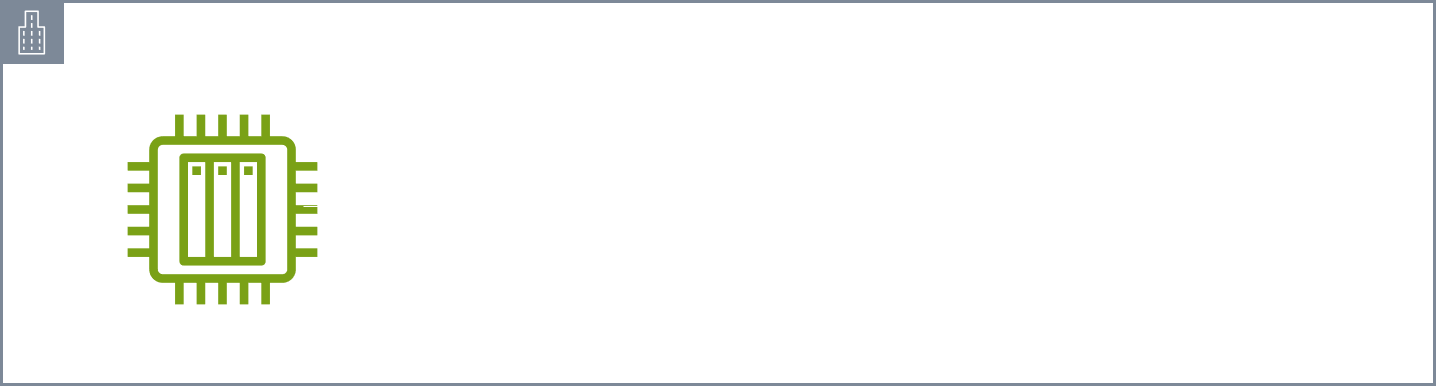
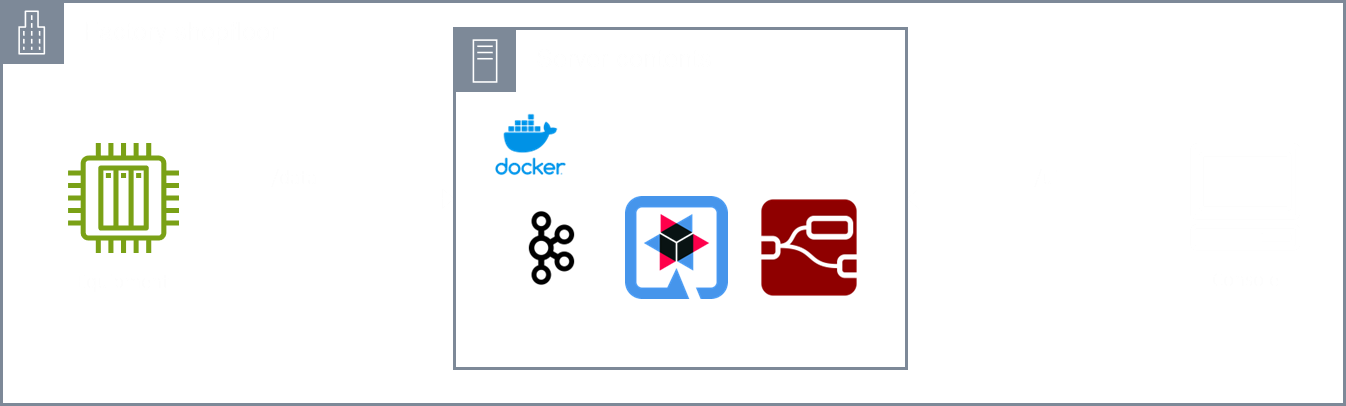
Updated architecture diagrams.

diff --git a/README.md b/README.md
@@ -2,7 +2,7 @@
 
 Maintenance Mitra is an application to display machine parameters, detect alarm conditions and duration in near real-time from one machine to one user at a time. The application is launched as a Docker Compose stack.
 
-![Screen-shot](./png/screen-shot.png)
+![Screen-shot](./png/dashboard.png)
 
 - [Introduction](#introduction)
   - [On-premise installation](#on-premise-installation)
